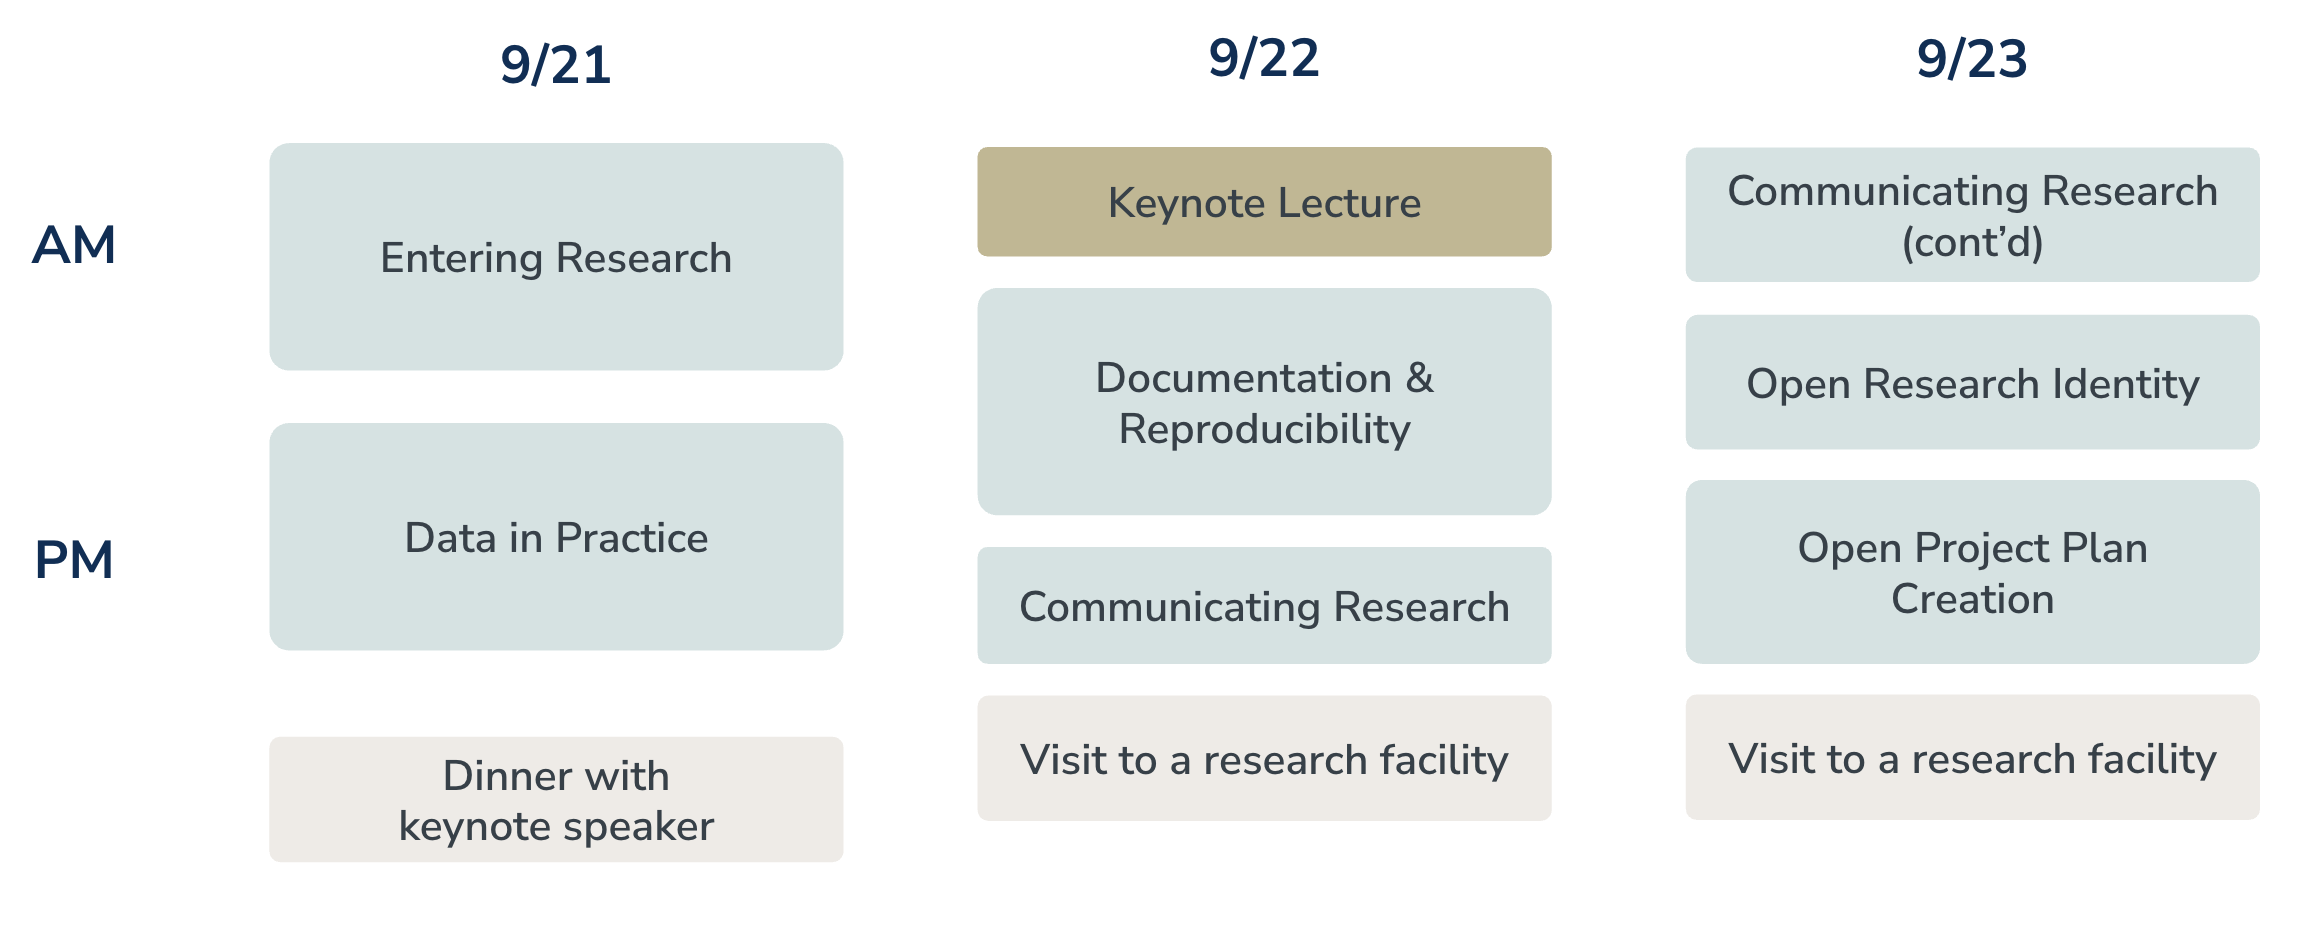
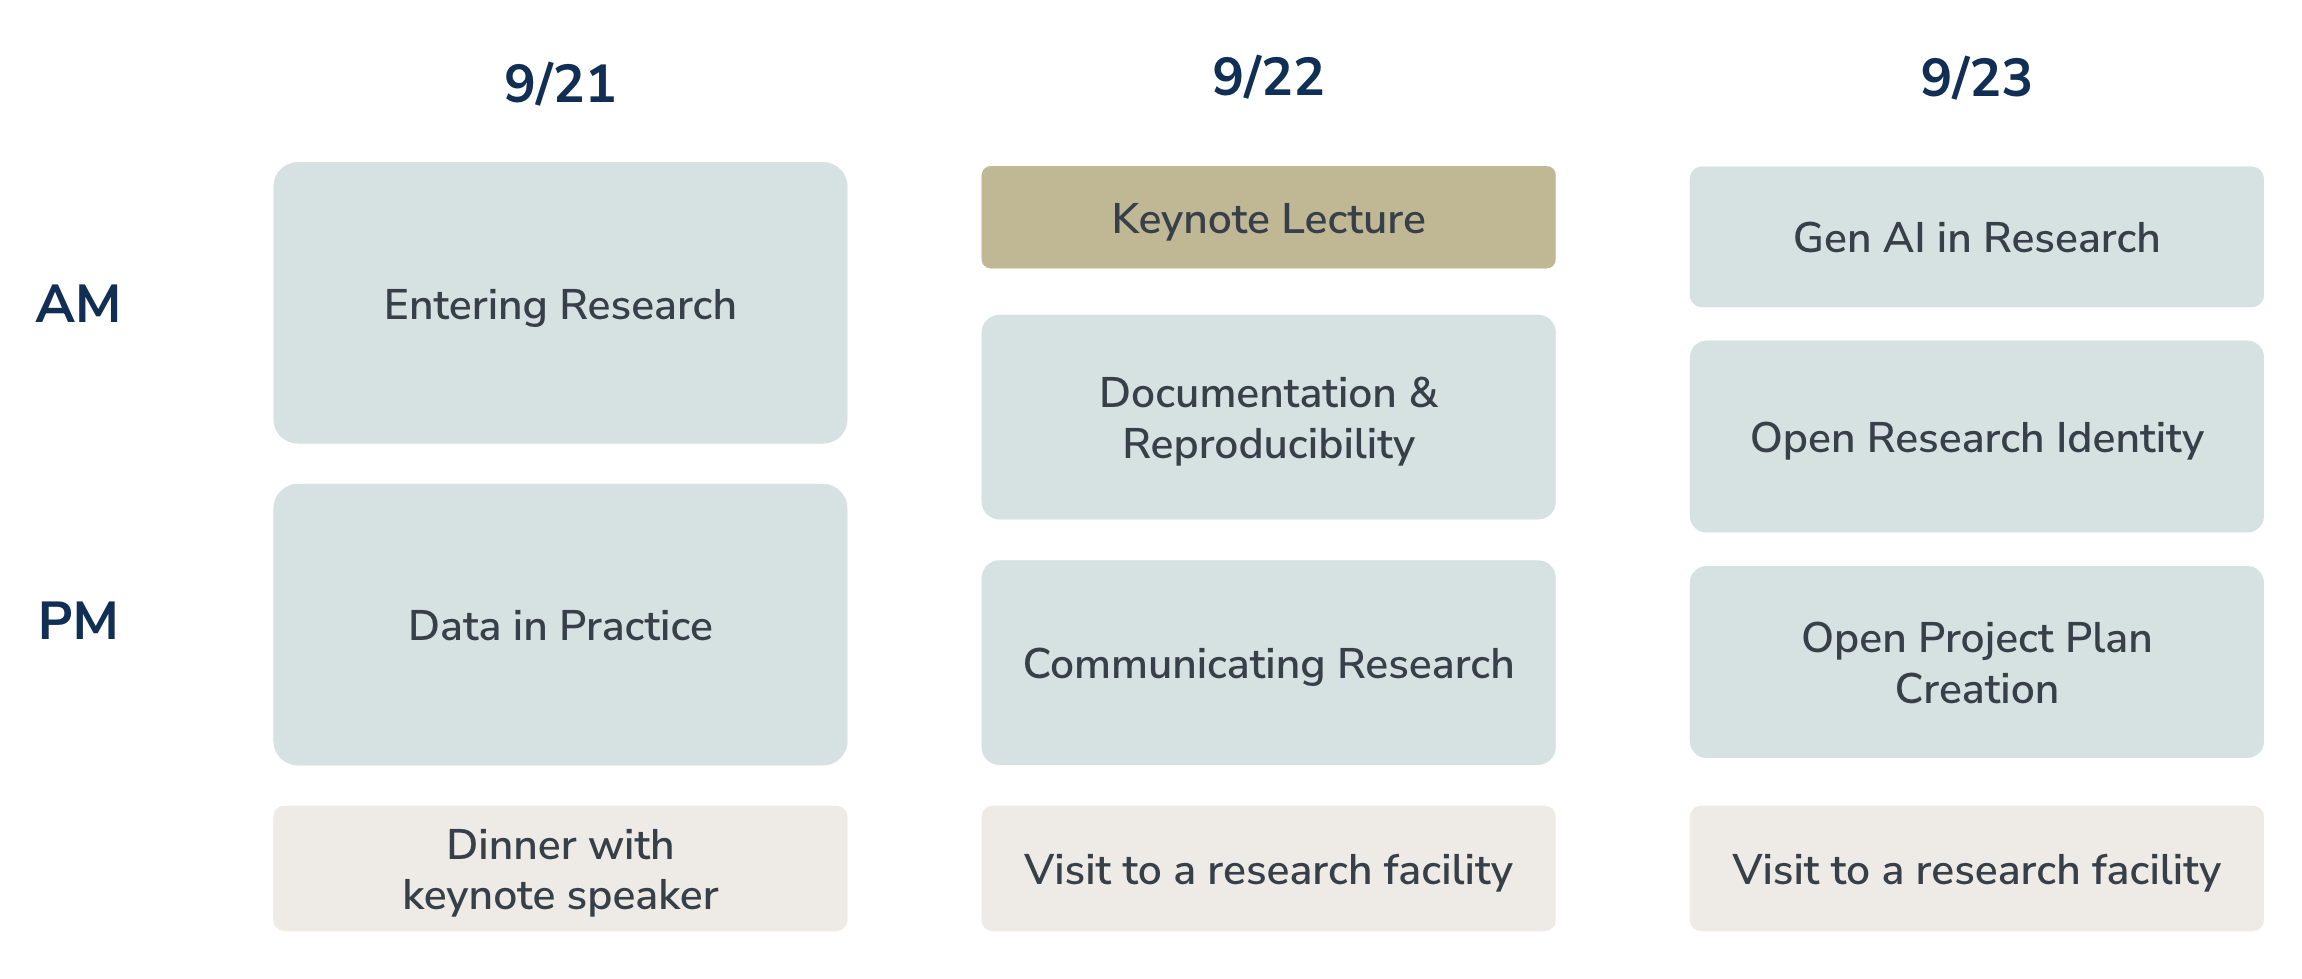
add new module info

diff --git a/_lectures/module5-gen-ai.md b/_lectures/module5-gen-ai.md
@@ -1,0 +1,19 @@
+---
+type: lecture
+date: 2026-09-23T9:00:00-7:00
+location: TBD
+
+title: Generative AI in Research
+description: Explore potential uses of generative AI tools in research workflows. You’ll examine both the possibilities and limitations of these tools, with an emphasis on using AI intentionally, critically, and responsibly in research settings. This module will also touch upon important questions around transparency, reproducibility, bias, and intellectual contribution.
+
+thumbnail: /_images/modules/module5-open-identity.png
+
+hide_from_announcments: true
+
+#links: 
+#    - url: /static_files/presentations/code.zip
+#      name: codes
+---
+[//]: # Item in this section gets added to the Schedule page
+[//]: # #- [Readings 1](http://example.com)
+[//]: # #- [Readings 2](http://example.com)

diff --git a/_lectures/module1-entering-research.md b/_lectures/module1-entering-research.md
@@ -1,6 +1,6 @@
 ---
 type: lecture
-date: 2026-09-16T9:00:00-7:00
+date: 2026-09-21T9:00:00-7:00
 location: TBD
 
 title: Entering Research

diff --git a/_lectures/module2-data-in-practice.md b/_lectures/module2-data-in-practice.md
@@ -1,6 +1,6 @@
 ---
 type: lecture
-date: 2026-09-16T13:00:00-7:00
+date: 2026-09-21T13:00:00-7:00
 location: TBD
 
 title: Data in Practice

diff --git a/_lectures/module3-documentation.md b/_lectures/module3-documentation.md
@@ -1,6 +1,6 @@
 ---
 type: lecture
-date: 2026-09-17T9:00:00-7:00
+date: 2026-09-22T9:00:00-7:00
 location: TBD
 
 title: Documentation & Reproducibility

diff --git a/_lectures/module4-communicating-research.md b/_lectures/module4-communicating-research.md
@@ -1,6 +1,6 @@
 ---
 type: lecture
-date: 2026-09-17T13:00:00-7:00
+date: 2026-09-22T13:00:00-7:00
 location: TBD
 
 title: Communicating Research

diff --git a/index.md b/index.md
@@ -19,6 +19,7 @@ In just three days, you will:
 * Understand how research projects take shape—from start to finish
 * Explore what it means to do research openly and responsibly
 * Build confidence in communicating your research
+* Consider the opportunities and limitations of using generative AI in research
 * Leave with a clear plan for your next steps in research
 
 See the **[MODULES]({{ "/modules/" | relative_url }}) tab** for more information about the program, including the tentative schedule and module descriptions.